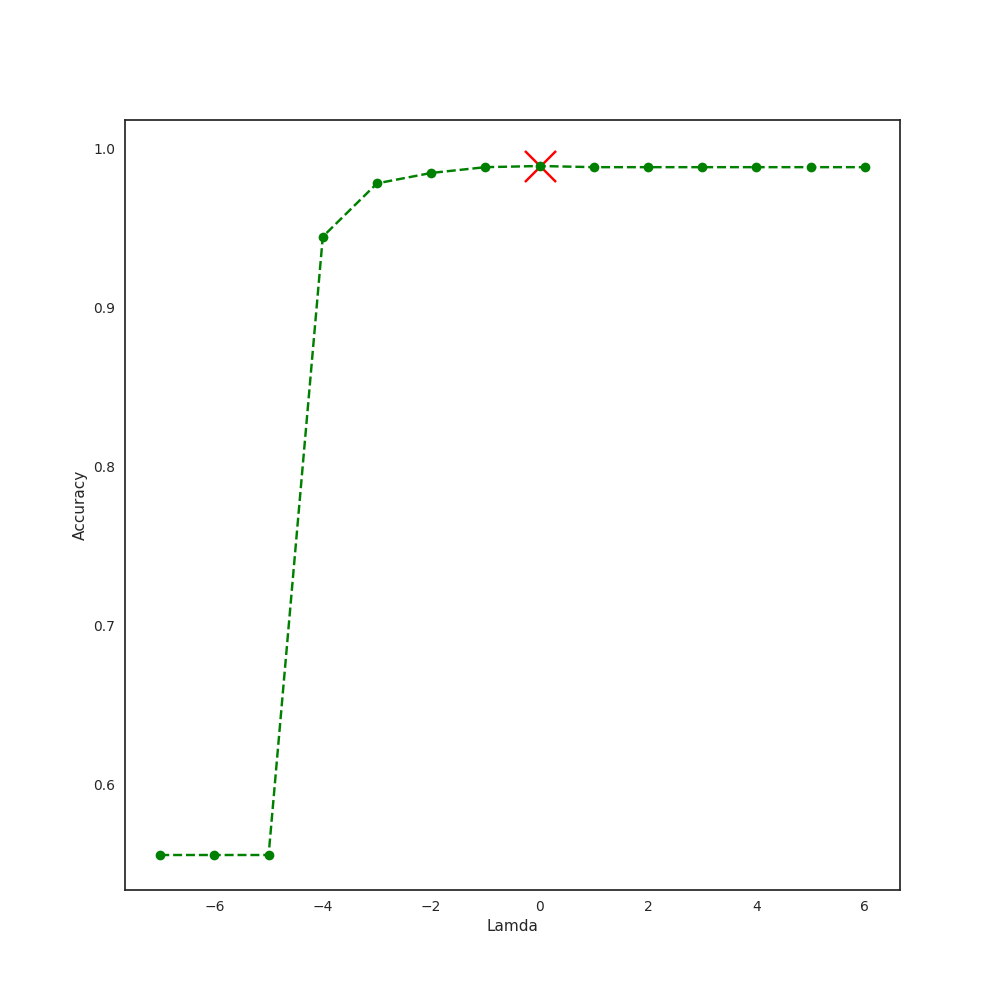
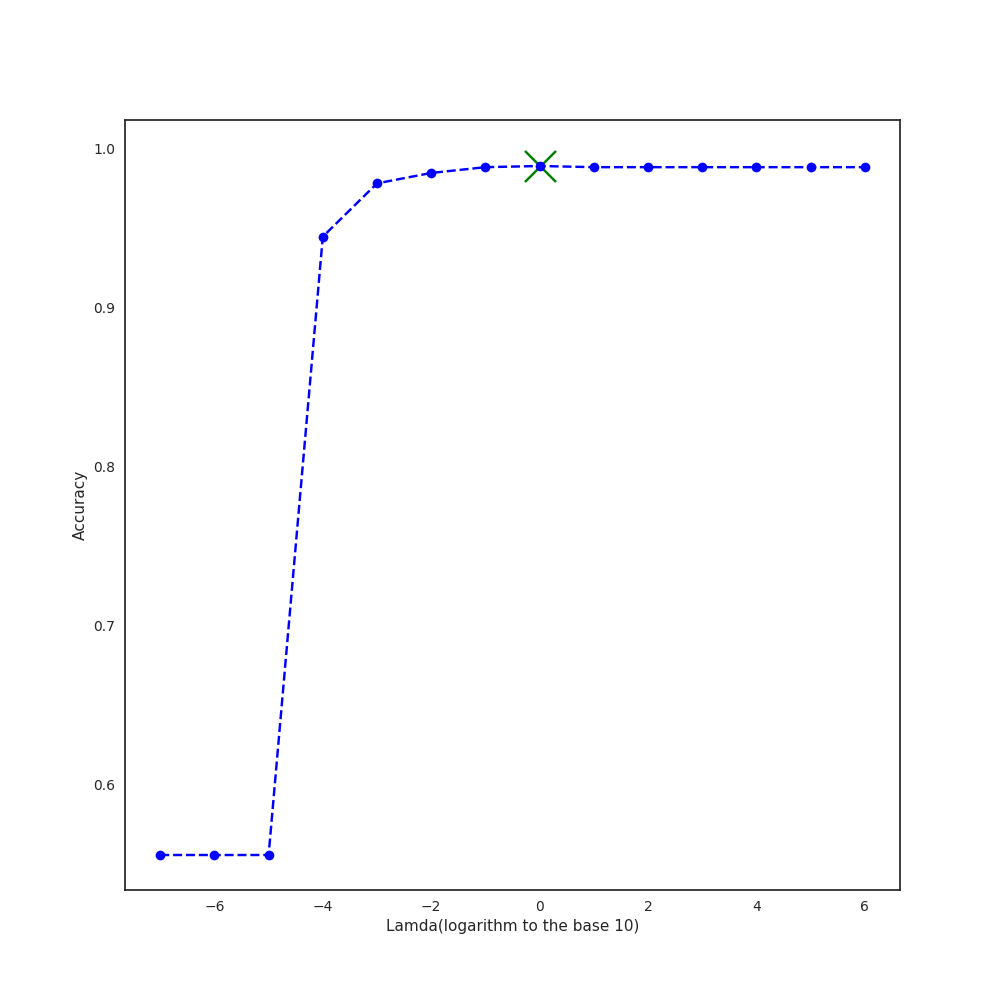
hw

diff --git a/donghun_lee_hw7_am221.py b/donghun_lee_hw7_am221.py
@@ -95,9 +95,9 @@ for ld in lamdas:
 best_lamda = np.argmax(accuracy_list)
 plt.figure(figsize=(10, 10))
 ax = plt.gca()
-ax.plot(np.log10(lamdas), accuracy_list, marker='o', linestyle='--', c='g')
-ax.scatter(np.log10(lamdas[best_lamda]), accuracy_list[best_lamda], marker='x', c='r', s=500.0)
-ax.set_xlabel('Lamda')
+ax.plot(np.log10(lamdas), accuracy_list, marker='o', linestyle='--', c='b')
+ax.scatter(np.log10(lamdas[best_lamda]), accuracy_list[best_lamda], marker='x', c='g', s=500.0)
+ax.set_xlabel('Lamda(logarithm to the base 10)')
 ax.set_ylabel('Accuracy')
 plt.show()
 plt.savefig("temp.png")
